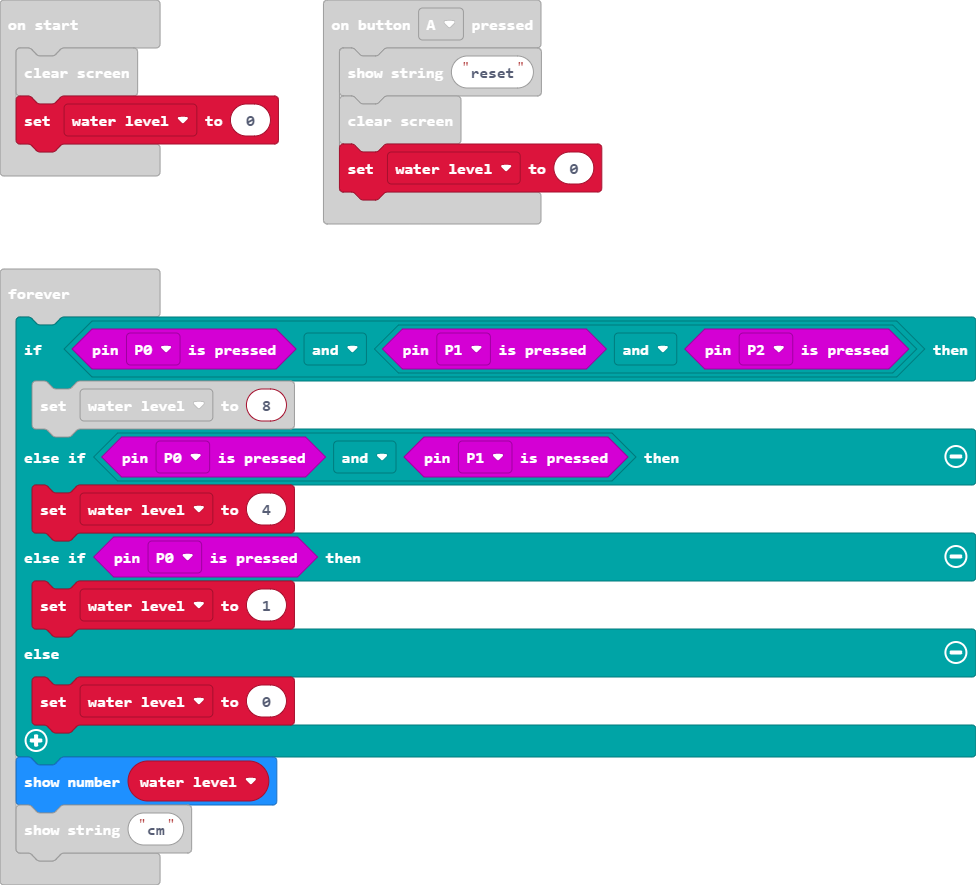
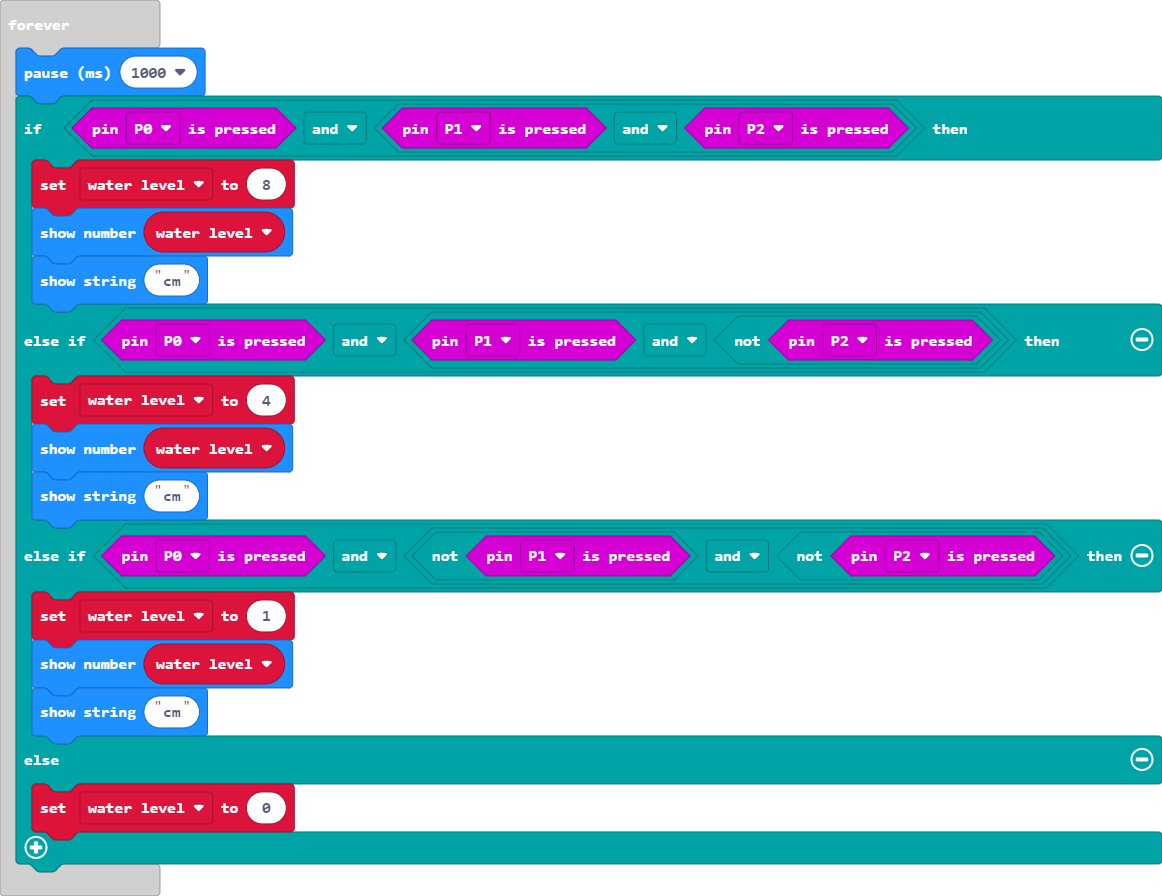
Update pxt.json, main.blocks, main.ts, main.py

diff --git a/main.ts b/main.ts
@@ -1,21 +1,24 @@
+let water_level = 0
 input.onButtonPressed(Button.A, function () {
     basic.showString("reset")
     basic.clearScreen()
     water_level = 0
 })
-let water_level = 0
-basic.clearScreen()
-water_level = 0
 basic.forever(function () {
+    basic.pause(1000)
     if (input.pinIsPressed(TouchPin.P0) && (input.pinIsPressed(TouchPin.P1) && input.pinIsPressed(TouchPin.P2))) {
         water_level = 8
-    } else if (input.pinIsPressed(TouchPin.P0) && input.pinIsPressed(TouchPin.P1)) {
+        basic.showNumber(water_level)
+        basic.showString("cm")
+    } else if (input.pinIsPressed(TouchPin.P0) && (input.pinIsPressed(TouchPin.P1) && !(input.pinIsPressed(TouchPin.P2)))) {
         water_level = 4
-    } else if (input.pinIsPressed(TouchPin.P0)) {
+        basic.showNumber(water_level)
+        basic.showString("cm")
+    } else if (input.pinIsPressed(TouchPin.P0) && (!(input.pinIsPressed(TouchPin.P1)) && !(input.pinIsPressed(TouchPin.P2)))) {
         water_level = 1
+        basic.showNumber(water_level)
+        basic.showString("cm")
     } else {
         water_level = 0
     }
-    basic.showNumber(water_level)
-    basic.showString("cm")
 })

diff --git a/main.py b/main.py
@@ -1,0 +1,27 @@
+water_level = 0
+
+def on_button_pressed_a():
+    global water_level
+    basic.show_string("reset")
+    basic.clear_screen()
+    water_level = 0
+input.on_button_pressed(Button.A, on_button_pressed_a)
+
+def on_forever():
+    global water_level
+    basic.pause(1000)
+    if input.pin_is_pressed(TouchPin.P0) and (input.pin_is_pressed(TouchPin.P1) and input.pin_is_pressed(TouchPin.P2)):
+        water_level = 8
+        basic.show_number(water_level)
+        basic.show_string("cm")
+    elif input.pin_is_pressed(TouchPin.P0) and input.pin_is_pressed(TouchPin.P1):
+        water_level = 4
+        basic.show_number(water_level)
+        basic.show_string("cm")
+    elif input.pin_is_pressed(TouchPin.P0):
+        water_level = 1
+        basic.show_number(water_level)
+        basic.show_string("cm")
+    else:
+        water_level = 0
+basic.forever(on_forever)
